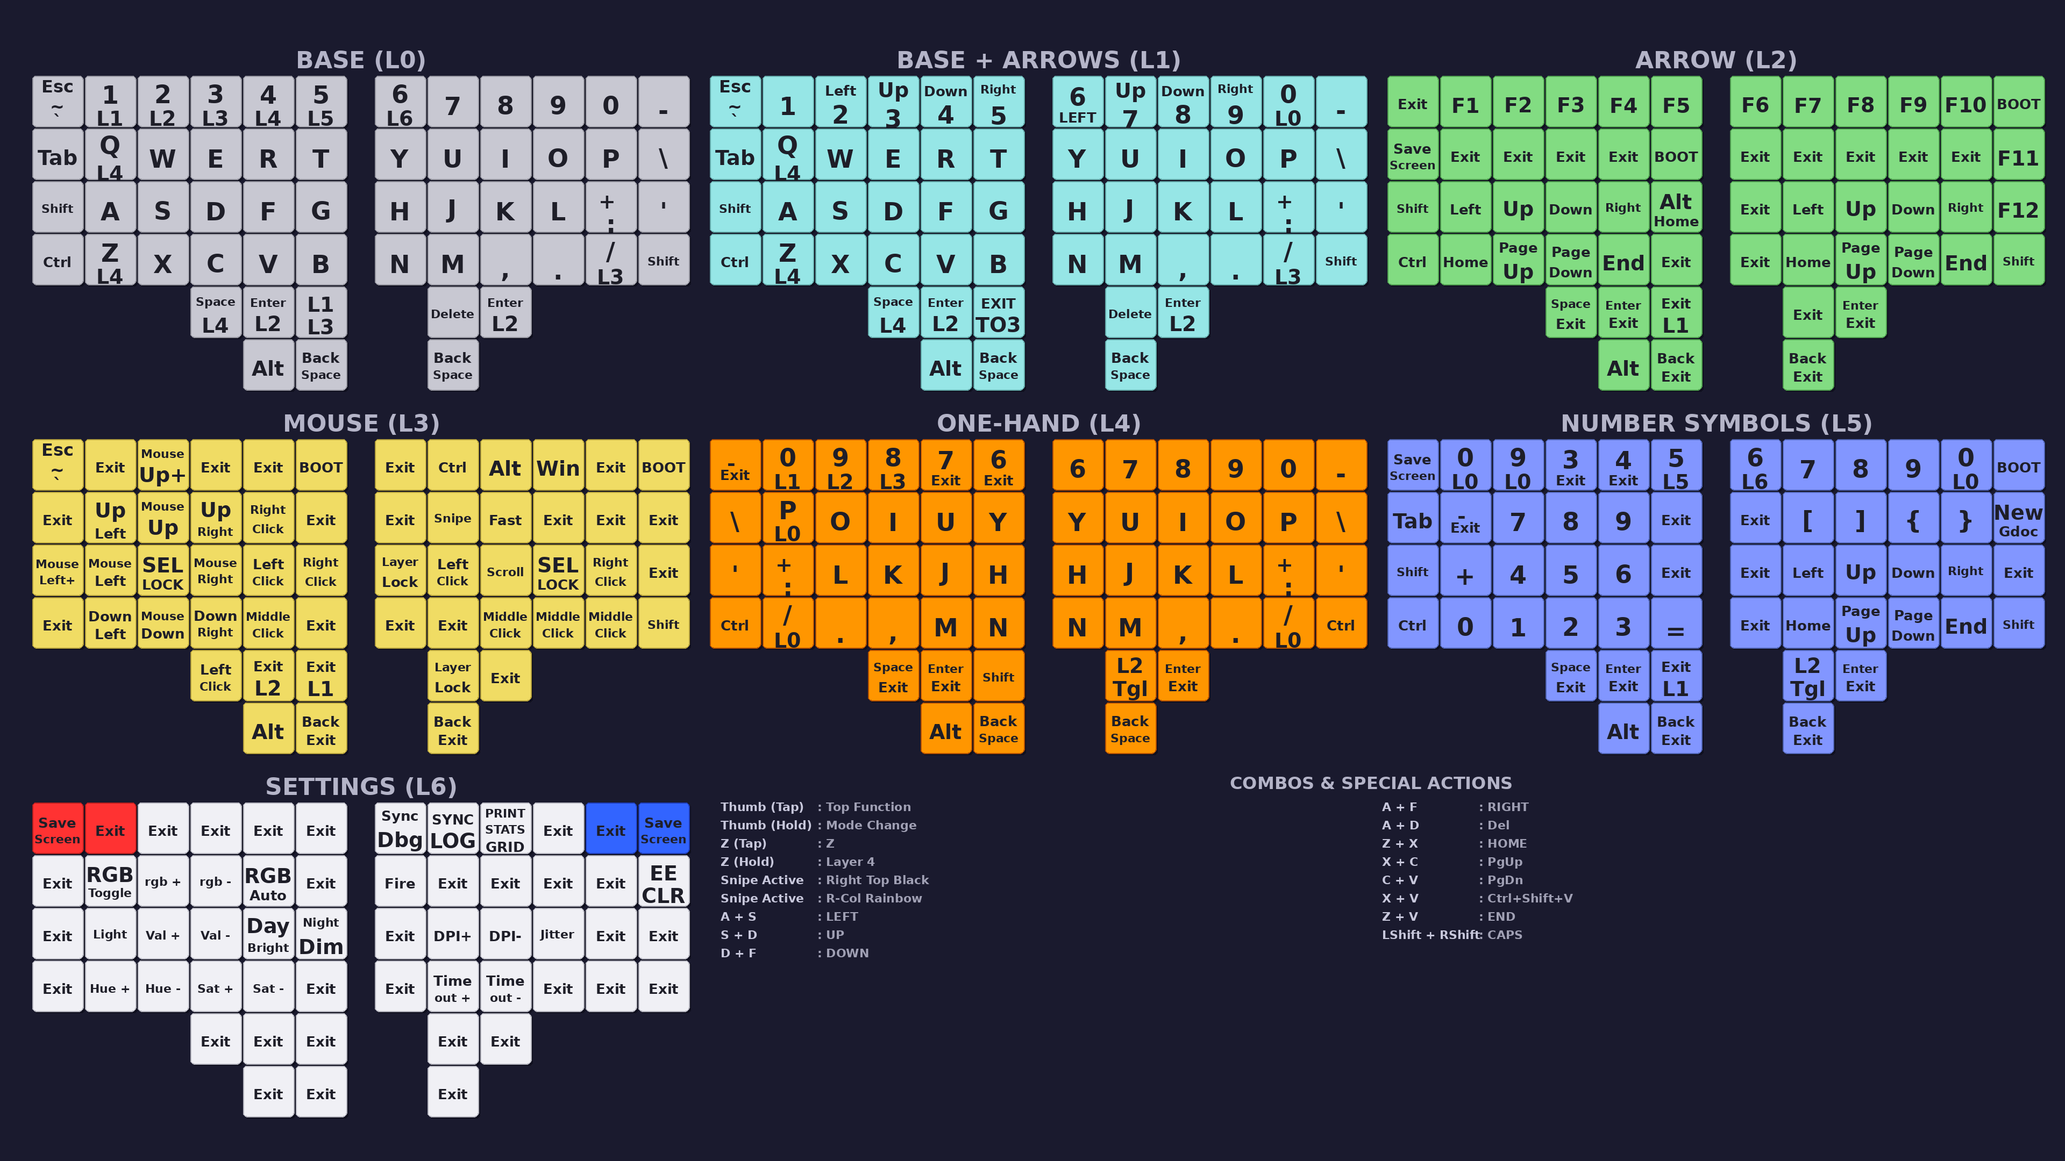
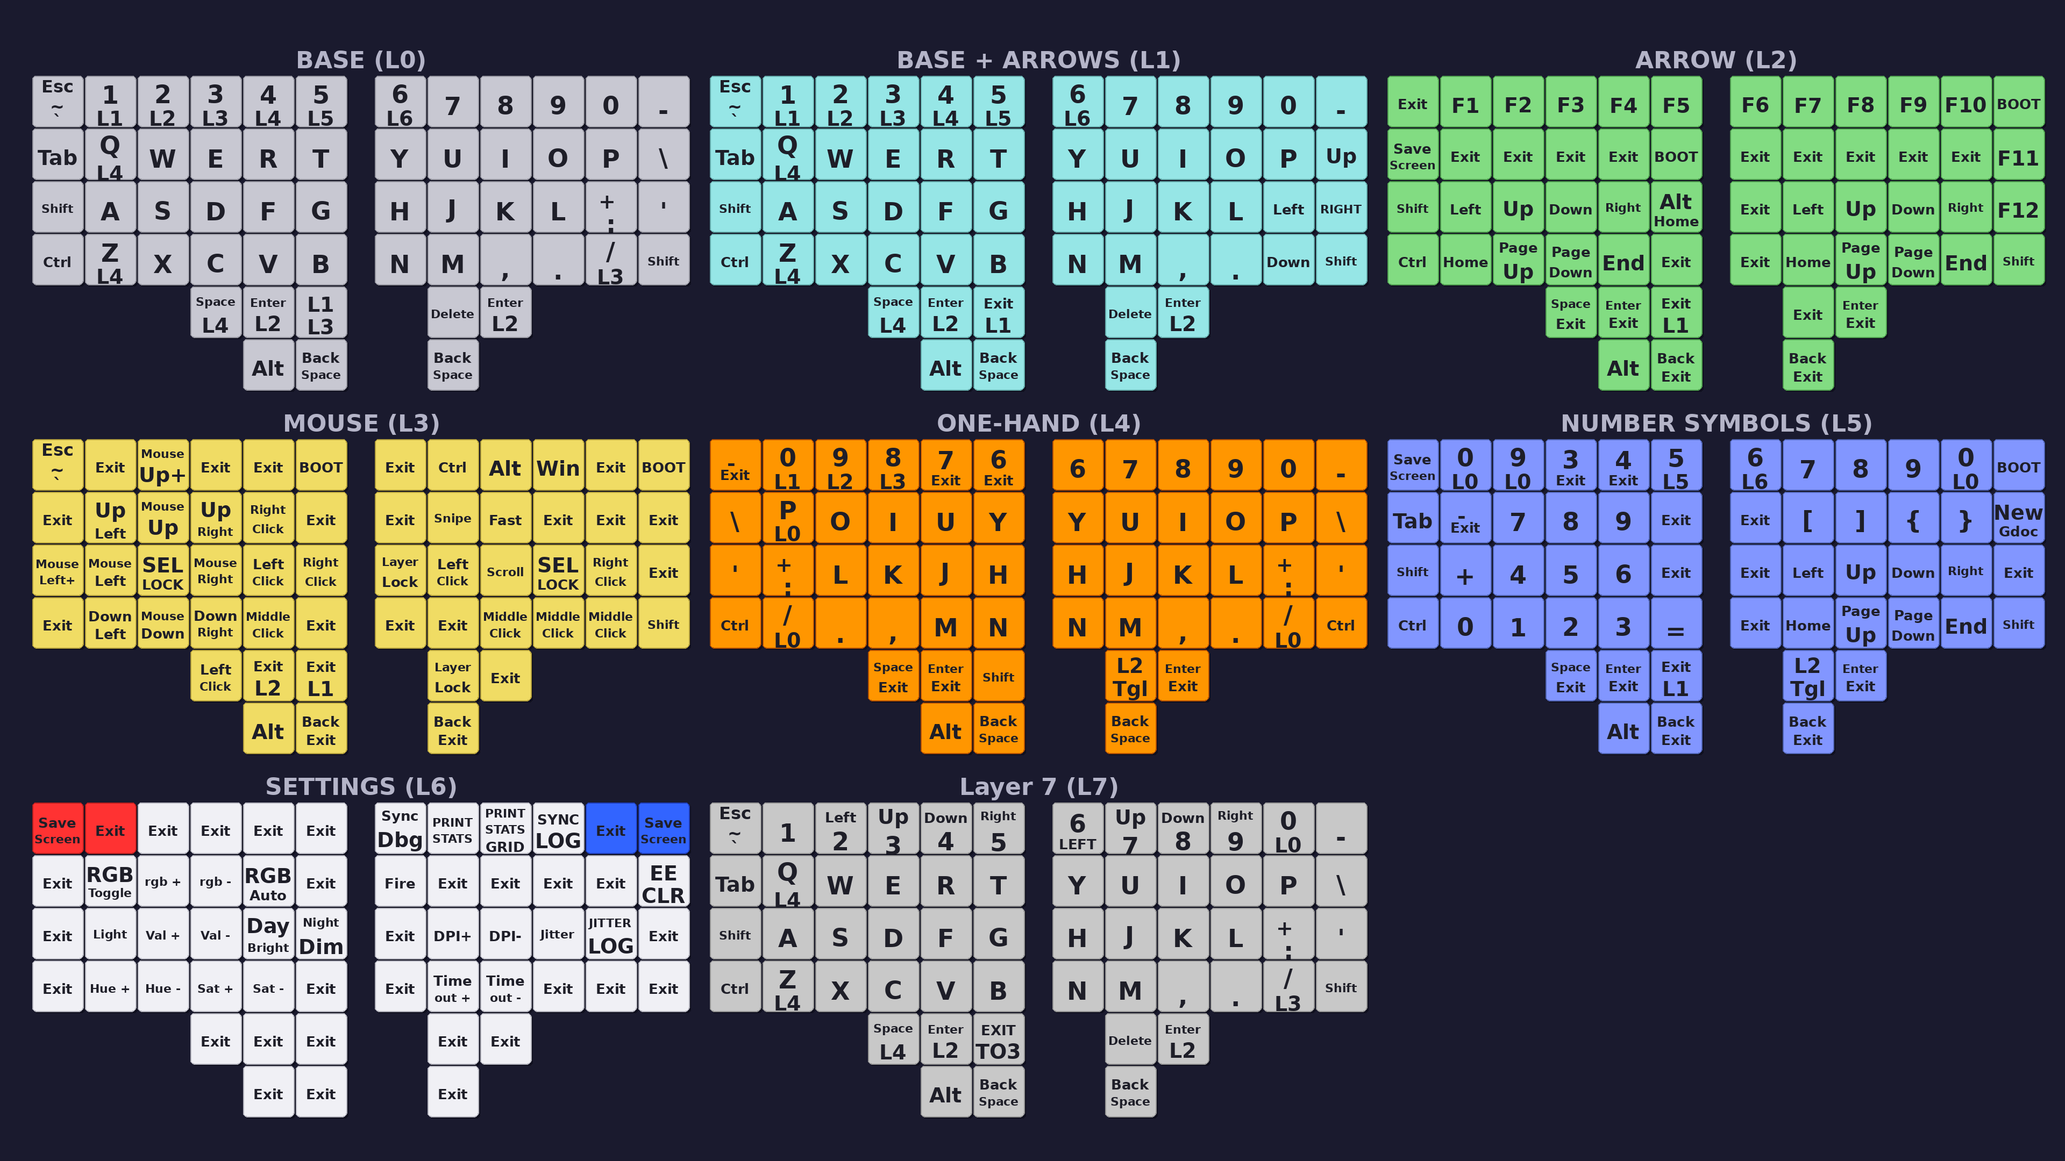
feat(keymap): add Layer 1 punctuation arrows and layer history stack
- **Layer 1 (Punctuation Arrows):** New layer based on Base, mapping right-hand punctuation keys to Arrows (Up, Left, Right, Down).
- **Layer 7 (Legacy):** Moved original 'Base + Arrows' (number row arrows) to Layer 7.
- **Layer History:** Implemented a stack-based history for smarter  behavior.
- **Documentation:** Updated  and generated assets.

diff --git a/keymap/keymap.c b/keymap/keymap.c
@@ -13,6 +13,24 @@ const char *layer_change_reason = NULL;
 #define REASON_BUFFER_SIZE 128
 static char layer_reason_buffer[REASON_BUFFER_SIZE];
 
+// Layer History Stack
+#define LAYER_HISTORY_SIZE 3
+static layer_state_t layer_history[LAYER_HISTORY_SIZE] = {0};
+static uint8_t history_head = 0;
+static bool is_popping_layer = false;
+
+void layer_history_pop(void) {
+  layer_state_t target_state = 0;
+  if (history_head > 0) {
+    history_head--;
+    target_state = layer_history[history_head];
+  }
+  snprintf(layer_reason_buffer, sizeof(layer_reason_buffer), "Return: Restore %lu (Head %u)", (unsigned long)target_state, history_head);
+  layer_change_reason = layer_reason_buffer;
+  is_popping_layer = true;
+  layer_state_set(target_state);
+}
+
 #include "features/keycodes.h"
 
 // Tap Dance Definitions
@@ -186,6 +204,23 @@ layer_state_t layer_state_set_user(layer_state_t state) {
   uint32_t now = timer_read32();
   uint32_t sec = now / 1000;
   uint32_t ms = now % 1000;
+
+  if (state != layer_state) {
+    if (is_popping_layer) {
+      is_popping_layer = false;
+    } else {
+      // Normal navigation: Push old state to history
+      if (history_head < LAYER_HISTORY_SIZE) {
+        layer_history[history_head++] = layer_state;
+      } else {
+        // Stack full: Shift left
+        for (int i = 0; i < LAYER_HISTORY_SIZE - 1; i++) {
+          layer_history[i] = layer_history[i + 1];
+        }
+        layer_history[LAYER_HISTORY_SIZE - 1] = layer_state;
+      }
+    }
+  }
 
   uint8_t layer = get_highest_layer(state);
   uint8_t prev_layer = get_highest_layer(layer_state);
@@ -366,60 +401,18 @@ bool process_record_user(uint16_t keycode, keyrecord_t *record) {
   switch (keycode) {
   case KC_EXIT:
     if (record->event.pressed) {
-      snprintf(layer_reason_buffer, sizeof(layer_reason_buffer), "KC_EXIT (Tap): L0 (Key: R%u, C%u)", record->event.key.row, record->event.key.col);
-      layer_change_reason = layer_reason_buffer;
-      layer_move(0);
+      layer_history_pop();
       rgb_matrix_indicators_user();
     }
     return false;
-  case KC_TURBO:
-    if (record->event.pressed) {
-      pointing_device_set_cpi(3000);
-      uprintf("[%lu.%03lu] Turbo ON. CPI -> 3000\n", sec, ms);
-    } else {
-      pointing_device_set_cpi(charybdis_get_pointer_default_dpi());
-      uprintf("[%lu.%03lu] Turbo OFF. CPI -> Default (%u)\n", sec, ms,
-              pointing_device_get_cpi());
-    }
-    return false;
-  case KC_MS_FAST_UP:    return handle_fast_mouse(MS_UP, record->event.pressed);
-  case KC_MS_FAST_DOWN:  return handle_fast_mouse(MS_DOWN, record->event.pressed);
-  case KC_MS_FAST_LEFT:  return handle_fast_mouse(MS_LEFT, record->event.pressed);
-  case KC_MS_FAST_RIGHT: return handle_fast_mouse(MS_RGHT, record->event.pressed);
-  case KC_MS_DIAG_UL:    return handle_diag_mouse(MS_UP, MS_LEFT, record->event.pressed);
-  case KC_MS_DIAG_UR:    return handle_diag_mouse(MS_UP, MS_RGHT, record->event.pressed);
-  case KC_MS_DIAG_DL:    return handle_diag_mouse(MS_DOWN, MS_LEFT, record->event.pressed);
-  case KC_MS_DIAG_DR:    return handle_diag_mouse(MS_DOWN, MS_RGHT, record->event.pressed);
-  case KC_SCR_MODE:
-    if (record->event.pressed) {
-      is_scroll_mode = true;
-    } else {
-      is_scroll_mode = false;
-    }
-    return false;
-  case KC_ENT_MO4:
-    if (record->event.pressed) {
-      th[TH_ENT_MO].held = true;
-      th[TH_ENT_MO].triggered = false;
-      th[TH_ENT_MO].timer = timer_read();
-    } else {
-      th[TH_ENT_MO].held = false;
-      if (!th[TH_ENT_MO].triggered) {
-        tap_code(KC_ENT);
-      } else {
-        layer_change_reason = "ENT_MO4 (Release): L4->L0";
-        layer_off(4);
-        rgb_matrix_indicators_user();
-      }
-    }
-    return false;
+
   case KC_ENT_EXIT:
     if (record->event.pressed) {
-      layer_change_reason = "ENT_EXIT (Tap): L0";
-      layer_state_set(0); // Clear all layers (peek at base)
+      layer_history_pop();
       rgb_matrix_indicators_user();
       th[TH_ENT_MO].timer = timer_read();
     } else {
+// ...
       uprintf("KC_ENT_EXIT Released. Elapsed: %u. Action: %s\n",
               timer_elapsed(th[TH_ENT_MO].timer),
               (timer_elapsed(th[TH_ENT_MO].timer) < TAPPING_TERM) ? "Tap (Exit)"
@@ -822,6 +815,12 @@ bool process_record_user(uint16_t keycode, keyrecord_t *record) {
       eeconfig_update_user(current_config);
     }
     return false;
+  case KC_JITTER_LOG:
+    if (record->event.pressed) {
+      limit_jitter_filter_messages = !limit_jitter_filter_messages;
+      uprintf("[%lu.%03lu] Jitter Logging Limit (500ms): %s\n", sec, ms, limit_jitter_filter_messages ? "ON" : "OFF");
+    }
+    return false;
   case KC_DEBUG_SYNC:
     if (record->event.pressed) {
       debug_dump_sync_state();
@@ -1095,14 +1094,13 @@ const uint16_t PROGMEM keymaps[][MATRIX_ROWS][MATRIX_COLS] = {
                  KC_LCTL, TD(TD_Z_LAYER), KC_X, KC_C  , KC_V    , KC_B    ,   KC_N, KC_M, KC_COMM, KC_DOT, LT(3, KC_SLSH), KC_RSFT,
                                           KC_SPC_L4, KC_ENT_L2, KC_L1_L3,   KC_DEL, KC_ENT_L2,
                                                           KC_LALT, KC_BSPC,   KC_BSPC),
-    // Layer 1: Base + Arrows (Old Layer 0)
-    [1] =
-        LAYOUT(QK_GESC, KC_1, KC_2_LEFT, KC_3_UP, KC_4_DOWN, KC_5_RIGHT,   KC_6_LEFT, KC_UP_7, KC_DOWN_8, KC_RIGHT_9, KC_0_TO0, KC_MINS,
-               KC_TAB , KC_Q_L4, KC_W    , KC_E    , KC_R    , KC_T    ,   KC_Y, KC_U, KC_I, KC_O, KC_P, KC_BSLS,
-               KC_LSFT, KC_A    , KC_S    , KC_D    , KC_F    , KC_G    ,   KC_H, KC_J, KC_K, KC_L, KC_PLUS_COLON, KC_QUOT,
-               KC_LCTL, TD(TD_Z_LAYER), KC_X, KC_C  , KC_V    , KC_B    ,   KC_N, KC_M, KC_COMM, KC_DOT, LT(3, KC_SLSH), KC_RSFT,
-                                        KC_SPC_L4, KC_ENT_L2, KC_EXIT_TO3,   KC_DEL, KC_ENT_L2,
-                                                        KC_LALT, KC_BSPC,   KC_BSPC),
+    // Layer 1: Punctuation Arrows (Modified Base)
+    [1] = LAYOUT(QK_GESC, KC_1_L1, KC_2_L2, KC_3_L3, KC_4_L4, KC_5_L5,   KC_6_L6, KC_7, KC_8, KC_9, KC_0, KC_UP,
+                 KC_TAB , KC_Q_L4, KC_W    , KC_E    , KC_R    , KC_T    ,   KC_Y, KC_U, KC_I, KC_O, KC_P, KC_DOWN,
+                 KC_LSFT, KC_A    , KC_S    , KC_D    , KC_F    , KC_G    ,   KC_H, KC_J, KC_K, KC_L, KC_LEFT, KC_RIGHT,
+                 KC_LCTL, TD(TD_Z_LAYER), KC_X, KC_C  , KC_V    , KC_B    ,   KC_N, KC_M, KC_COMM, KC_DOT, LT(3, KC_SLSH), KC_RSFT,
+                                          KC_SPC_L4, KC_ENT_L2, KC_L1_L3,   KC_DEL, KC_ENT_L2,
+                                                          KC_LALT, KC_BSPC,   KC_BSPC),
     [2] = LAYOUT(KC_EXIT, KC_F1  , KC_F2  , KC_F3  , KC_F4  , KC_F5        ,   KC_F6      , KC_F7  , KC_F8  , KC_F9  , KC_F10 , QK_BOOT,
                  KC_PSCR, KC_EXIT, KC_EXIT, KC_EXIT, KC_EXIT, QK_BOOT      ,   KC_EXIT    , KC_EXIT, KC_EXIT, KC_EXIT, KC_EXIT, KC_F11,
                  KC_LSFT, KC_LEFT, KC_UP  , KC_DOWN, KC_RGHT, LALT(KC_HOME),   KC_EXIT    , KC_LEFT, KC_UP  , KC_DOWN, KC_RGHT, KC_F12,
@@ -1133,10 +1131,19 @@ const uint16_t PROGMEM keymaps[][MATRIX_ROWS][MATRIX_COLS] = {
      [6] = LAYOUT(
       KC_PSCR, KC_EXIT  , KC_EXIT, KC_EXIT  , KC_EXIT  , KC_EXIT,   KC_DEBUG_SYNC, KC_PRINT_STATS, KC_PRINT_STATS_GRID, KC_SYNC_LOG, KC_EXIT  , KC_PSCR,
       KC_EXIT, RM_TOGG  , RM_NEXT, RM_PREV, KC_RGB_AUTO, KC_EXIT,   KC_FIRE      , KC_EXIT       , KC_EXIT            , KC_EXIT  , KC_EXIT  , QK_CLEAR_EEPROM,
-      KC_EXIT, KC_FLASHLIGHT, RM_VALU, RM_VALD, KC_DAY, KC_NIGHT,   KC_EXIT      , DPI_MOD    , DPI_RMOD , KC_JITTER, KC_EXIT  , KC_EXIT,
+      KC_EXIT, KC_FLASHLIGHT, RM_VALU, RM_VALD, KC_DAY, KC_NIGHT,   KC_EXIT      , DPI_MOD    , DPI_RMOD , KC_JITTER, KC_JITTER_LOG  , KC_EXIT,
       KC_EXIT, RM_HUEU  , RM_HUED, RM_SATU  , RM_SATD  , KC_EXIT,   KC_EXIT, KC_MS_TMO_INC, KC_MS_TMO_DEC, KC_EXIT, KC_EXIT, KC_EXIT,
                                        KC_EXIT, KC_EXIT, KC_EXIT,   KC_EXIT, KC_EXIT,
                                                 KC_EXIT, KC_EXIT,   KC_EXIT),
+
+    // Layer 7: Original Base + Arrows (Moved from L1)
+    [7] =
+        LAYOUT(QK_GESC, KC_1, KC_2_LEFT, KC_3_UP, KC_4_DOWN, KC_5_RIGHT,   KC_6_LEFT, KC_UP_7, KC_DOWN_8, KC_RIGHT_9, KC_0_TO0, KC_MINS,
+               KC_TAB , KC_Q_L4, KC_W    , KC_E    , KC_R    , KC_T    ,   KC_Y, KC_U, KC_I, KC_O, KC_P, KC_BSLS,
+               KC_LSFT, KC_A    , KC_S    , KC_D    , KC_F    , KC_G    ,   KC_H, KC_J, KC_K, KC_L, KC_PLUS_COLON, KC_QUOT,
+               KC_LCTL, TD(TD_Z_LAYER), KC_X, KC_C  , KC_V    , KC_B    ,   KC_N, KC_M, KC_COMM, KC_DOT, LT(3, KC_SLSH), KC_RSFT,
+                                        KC_SPC_L4, KC_ENT_L2, KC_EXIT_TO3,   KC_DEL, KC_ENT_L2,
+                                                        KC_LALT, KC_BSPC,   KC_BSPC),
 };
 
 bool rgb_matrix_indicators_user(void) {

diff --git a/keymap/features/mouse.c b/keymap/features/mouse.c
@@ -8,6 +8,7 @@ bool is_sniping_active = false;
 bool is_fast_mode_active = false;
 bool mouse_is_locked = false;
 bool is_jitter_filter_active = false;
+bool limit_jitter_filter_messages = true;
 bool auto_mouse_on = false;
 uint16_t auto_mouse_timer = 0;
 uint16_t auto_mouse_timeout = 1500; // Default (matches AUTO_MOUSE_TIME in config.h)
@@ -108,6 +109,9 @@ void process_mouse_timeouts(void) {
 }
 
 // Main mouse processing task (called from pointing_device_task_user)
+#define MOUSE_JITTER_STREAK_INTERVAL 50  // Max ms between small movements to count as a streak
+#define MOUSE_JITTER_STREAK_THRESHOLD 4  // Number of small movements to establish a streak
+
 report_mouse_t housekeeping_mouse_task(report_mouse_t mouse_report) {
   int8_t x = mouse_report.x;
   int8_t y = mouse_report.y;
@@ -135,18 +139,50 @@ report_mouse_t housekeeping_mouse_task(report_mouse_t mouse_report) {
   if (is_jitter_filter_active) {
     // Filter out 1-unit orthogonal movements (jitter)
     // Keep diagonals (e.g. x=1, y=1) or larger movements
-    if ((x == 0 && (y == 1 || y == -1)) || (y == 0 && (x == 1 || x == -1))) {
-      static uint32_t last_jitter_log = 0;
-      if (timer_elapsed32(last_jitter_log) > 1000) {
-        LOG_TIME();
-        uprintf("\033[95mMouse: Jitter Filtered (x=%d, y=%d)\033[0m\n", x, y);
-        last_jitter_log = timer_read32();
+    bool is_small_orthogonal = ((x == 0 && (y == 1 || y == -1)) || (y == 0 && (x == 1 || x == -1)));
+
+    if (is_small_orthogonal) {
+      static uint32_t last_jitter_time = 0;
+      static uint8_t jitter_streak = 0;
+
+      // Check if this small movement occurred very soon after the previous one.
+      // High-frequency small movements (interval < MOUSE_JITTER_STREAK_INTERVAL) are likely intentional
+      // slow tracking rather than random sensor noise.
+      if (timer_elapsed32(last_jitter_time) < MOUSE_JITTER_STREAK_INTERVAL) {
+        if (jitter_streak < 255) jitter_streak++;
+      } else {
+        // If there's a gap, reset the streak; it's considered isolated jitter again.
+        if (jitter_streak > 0) {
+          uprintf("\033[90mMouse: Streak Reset (was %d)\033[0m\n", jitter_streak);
+        }
+        jitter_streak = 0;
       }
-      // Zero out the report so it's ignored by the host AND by the auto-layer logic below
-      mouse_report.x = 0;
-      mouse_report.y = 0;
-      x = 0;
-      y = 0;
+      last_jitter_time = timer_read32();
+
+      // We only suppress the movement if it hasn't established a "streak".
+      // A streak of MOUSE_JITTER_STREAK_THRESHOLD+ events means the user is consistently moving the ball slowly,
+      // so we stop filtering and let the movement through to the host.
+      if (jitter_streak < MOUSE_JITTER_STREAK_THRESHOLD) {
+        static uint32_t last_jitter_log = 0;
+        // Apply logging throttle (default 500ms)
+        if (limit_jitter_filter_messages && timer_elapsed32(last_jitter_log) > 500) {
+          LOG_TIME();
+          uprintf("\033[95mMouse: Jitter Filtered (x=%d, y=%d, streak=%d)\033[0m\n", x, y, jitter_streak);
+          last_jitter_log = timer_read32();
+        }
+        // Zero out the report so it's ignored by the host AND by the auto-layer logic below
+        mouse_report.x = 0;
+        mouse_report.y = 0;
+        x = 0;
+        y = 0;
+      } else {
+        // Log when we break the filter
+        static uint8_t last_logged_streak = 0;
+        if (jitter_streak == MOUSE_JITTER_STREAK_THRESHOLD && last_logged_streak < MOUSE_JITTER_STREAK_THRESHOLD) {
+          uprintf("\033[92mMouse: Streak Established (%d), Filter Broken\033[0m\n", jitter_streak);
+        }
+        last_logged_streak = jitter_streak;
+      }
     }
   }
 
@@ -160,11 +196,17 @@ report_mouse_t housekeeping_mouse_task(report_mouse_t mouse_report) {
       if (movement_streak > 1) { // Require 2 consecutive movement events
         // Only activate layer for significant movement
         if (is_keyboard_master()) {
-             uprintf("Mouse: Activated (x=%d, y=%d)\n", x, y);
-             layer_change_reason = "Auto Mouse Movement";
-             layer_on(3); // Switch to Mouse Layer (3)
-             auto_mouse_on = true;
-             auto_mouse_timer = timer_read();
+             // Only activate Auto Mouse if Layer 3 isn't already active (e.g. manually locked)
+             if (!layer_state_is(3)) {
+                 uprintf("Mouse: Activated (x=%d, y=%d)\n", x, y);
+                 layer_change_reason = "Auto Mouse Movement";
+                 layer_on(3); // Switch to Mouse Layer (3)
+                 auto_mouse_on = true;
+                 auto_mouse_timer = timer_read();
+             } else if (auto_mouse_on) {
+                 // If already in auto-mouse mode, just update the timer
+                 auto_mouse_timer = timer_read();
+             }
         } else {
              // Slave side: Signal master
              slave_mouse_active = true;

diff --git a/keymap/features/tap_hold.c b/keymap/features/tap_hold.c
@@ -67,8 +67,8 @@ bool process_tap_hold_key(uint16_t keycode, keyrecord_t *record) {
 // Exit key helper (SPC_EXIT, ENT_EXIT, BSPC_EXIT)
 bool handle_exit_key(uint16_t tap_key, bool pressed) {
     if (pressed) {
-        layer_change_reason = "Exit Key: L0";
-        layer_state_set(0);
+        // layer_change_reason = "Exit Key: L0"; // Handled by layer_history_pop
+        layer_history_pop();
         housekeeping_rgb_indicators(); // Call rgb indicator update
         th[TH_ENT_MO].timer = timer_read();
     } else {

diff --git a/keymap/features/keycodes.h b/keymap/features/keycodes.h
@@ -62,6 +62,7 @@ enum custom_keycodes {
   KC_DEBUG_SYNC,  // Debug key to dump sync state
   KC_SYNC_LOG,    // Toggle Sync Heartbeat Logging
   KC_JITTER,      // Toggle Mouse Jitter Filter
+  KC_JITTER_LOG,  // Toggle Mouse Jitter Logging
   KC_DAY,         // Set brightness to Day level
   KC_NIGHT,       // Set brightness to Night level
   KC_FLASHLIGHT,  // Toggle Flashlight mode

diff --git a/keymap/features/tap_hold.h b/keymap/features/tap_hold.h
@@ -49,4 +49,5 @@ bool process_tap_hold_key(uint16_t keycode, keyrecord_t *record);
 bool handle_exit_key(uint16_t tap_key, bool pressed);
 bool handle_l3_thumb(uint8_t th_idx, uint8_t tap_layer, uint8_t hold_layer, bool pressed);
 bool handle_thumb_toggle(uint8_t th_idx, uint16_t tap_key, const char* name, bool pressed);
+void layer_history_pop(void);
 void housekeeping_tap_hold(void);

diff --git a/keymap/features/mouse.h b/keymap/features/mouse.h
@@ -7,6 +7,7 @@ extern bool is_sniping_active;
 extern bool is_fast_mode_active;
 extern bool mouse_is_locked;
 extern bool is_jitter_filter_active;
+extern bool limit_jitter_filter_messages;
 extern bool is_selection_locked;
 extern bool auto_mouse_on;
 extern uint16_t auto_mouse_timer;

diff --git a/layout.md b/layout.md
@@ -15,16 +15,16 @@ Ctrl      Z(TD)     X         C         V         B        |  N         M       
 ```
 *Note: This is the "Clean" layer. Standard numbers. Hold numbers to peek other layers.*
 
-### BASE + ARROWS (Layer 1)
+### PUNCTUATION ARROWS (Layer 1)
 ```
-Esc       1         Left/L2   Up/L3     Down/L4   Right/L5 |  Left/L6   7/Up      8/Down    9/Right   0/L0      -
-Tab       Q/L4      W         E         R         T        |  Y         U         I         O         P         \
-Shift     A         S         D         F         G        |  H         J         K         L         +/:       '
-Ctrl      Z(TD)     X         C         V         B        |  N         M         ,         .         /(L3)     Shift
-                     Space/L2  Ent/L4    Exit               |  Del       Ent/L2    Alt
+Esc       1/L1      2/L2      3/L3      4/L4      5/L5     |  6/L6      7         8         9         0         -
+Tab       Q/L4      W         E         R         T        |  Y         U         I         O         P         Up
+Shift     A         S         D         F         G        |  H         J         K         L         Left      Right
+Ctrl      Z(TD)     X         C         V         B        |  N         M         ,         .         Down      Shift
+                     Space/L2  Ent/L4    L1(Tog)            |  Del       Ent/L2    Alt
                     Alt       Bspc
 ```
-*Note: Dual-function arrow row. Tap: Arrow (Left, Up, Down, Right pattern), Shift+Tap: Number. Hold 0 for Layer 0.*
+*Note: Base layer copy. Right-hand punctuation keys replaced with Arrows (Up, Left, Right, Down).*
 
 ### FUNCTION (Layer 2)
 ```
@@ -73,16 +73,28 @@ Exit      Hue+      Hue-      Sat+      Sat-      Exit     |  Exit      Time+   
 ```
 *Note: Keys marked with * auto-exit to Layer 0 after activation. Access via **Hold '5'**.*
 
+### BASE + ARROWS (Layer 7)
+```
+Esc       1         Left/L2   Up/L3     Down/L4   Right/L5 |  Left/L6   7/Up      8/Down    9/Right   0/L0      -
+Tab       Q/L4      W         E         R         T        |  Y         U         I         O         P         \
+Shift     A         S         D         F         G        |  H         J         K         L         +/:       '
+Ctrl      Z(TD)     X         C         V         B        |  N         M         ,         .         /(L3)     Shift
+                     Space/L2  Ent/L4    Exit               |  Del       Ent/L2    Alt
+                    Alt       Bspc
+```
+*Note: Dual-function arrow row (Old Layer 1). Tap: Arrow (Left, Up, Down, Right pattern), Shift+Tap: Number.*
+
 ## User Guide
 
 ### 1. Layers Overview
 - **Base (0):** Clean layer. Standard numbers. Hold numbers to peek other layers (e.g., Hold '2' for Layer 2).
-- **Base + Arrows (1):** Dual-function row. Numbers 2-9 act as Arrows (L, U, D, L pattern). Shift+Tap sends the number. Access via **Hold '1'**.
+- **Punctuation Arrows (1):** Base Layer variant. Right-hand punctuation keys (+\':./) map to Arrows (Up, Left, Right, Down). Access via **Hold '1'**.
 - **Function (2):** F-keys and navigation. Access via **Hold '2'**.
 - **Mouse (3):** Trackball layer. Automatically activates on movement.
 - **One-Hand (4):** Mirrored layout. Access via **Hold '4'** or **Hold 'Z'**.
 - **Nav/Num (5):** Numpad and secondary navigation. Access via **Hold '6'** (on Layer 0/1) or Mouse Thumb Hold.
 - **Settings (6):** RGB, Mouse config, and Statistics. Access via **Hold '5'**.
+- **Base + Arrows (7):** Legacy Arrow layer. Dual-function numbers.
 
 ### 2. Timing (LONG_PRESS_TIMEOUT)
 The unified timing for all tap-hold actions is **250ms**. This applies to Layer-Tap (LT), custom logic, and statistics tracking (Short vs Long presses).
